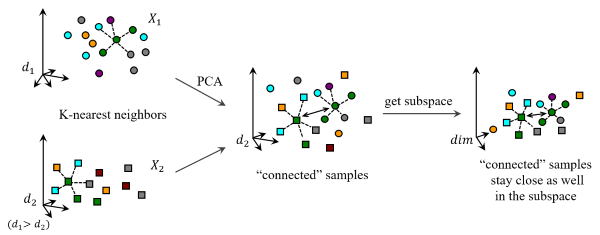
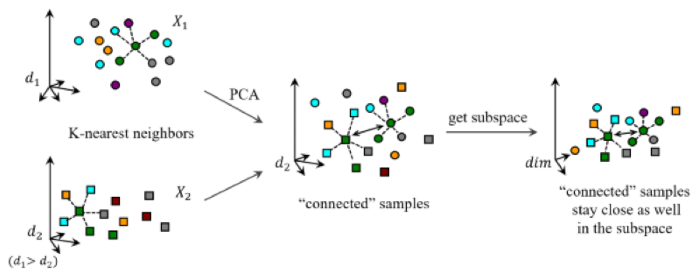
244

diff --git a/_posts/Publications/2019-4-29-MvLLS.md b/_posts/Publications/2019-4-29-MvLLS.md
@@ -10,15 +10,16 @@ categories: Publications
 * content
 {:toc}
 
-Under review now. <a href="/downloads/MvLLS.pdf" target="_blank">[Full text]<a>. 
+Under review now. <a href="/downloads/MvLLS.pdf" target="_blank">[Full text]<a>
 
 ### My works
 * Put forward the idea
 * Conduct experiments
 * Write the paper
 
+<hr>
 ## 1. Overview
-* In this paper, a flexible and extensible nonlinear method multi-view laplacian least square (MvLLS) is proposed for multi-view human-emotion recognition. 
+* A flexible and extensible nonlinear method multi-view laplacian least square (MvLLS) is proposed for multi-view human-emotion recognition. 
 * MvLLS finds a common subspace across all views where the connected samples stay close to each other as well. 
 * With the global laplacian weighted graph (GLWP), MvLLS records the local structures, introduces the category discriminant information, and protects the local information. 
 * MvLLS is optimized with interactive method. 
@@ -26,22 +27,60 @@ Under review now. <a href="/downloads/MvLLS.pdf" target="_blank">[Full text]<a>.
 
 <div align="center"><img src="/images/MvLLS.png"></div> 
 
+<hr>
 ## 2. Motivations
 * There are few nonlinear subspace learning methods proposed. 
 * The lack of category information or features of some samples could make most of existing methods hard to work. 
 * PLS get much better experimental results compared with CCA. 
 
+<hr>
 ## 3. Multi-view laplacian least squares
 
 ### 3.1. Global laplacian weighted graph
-A global laplacian weighted graph (GLWP) $$\mathcal{W}$$ is constructed over all views, which is composed by weighted graph of each two views $$W$$. Whether two samples in $$W$$ are connected or not depends on labels of they and their neighbors. In this way, the category discriminant information and locality is protected. 
+With PCA as the preprocessing step, a global laplacian weighted graph (GLWP) $$\mathcal{W}$$ is constructed over all views, which is composed by weighted graph of each two views $$W$$. Whether two samples in $$W$$ are connected or not depends on labels of they and their neighbors. In this way, the category discriminant information and locality is protected. 
+
+$$
+\mathcal{W}=
+\begin{bmatrix}
+W^{11} & W^{12} & \cdots & W^{1v} \\
+W^{21} & W^{22} & \cdots & W^{2v} \\
+\vdots  & \vdots  & \vdots & \vdots  \\
+W^{v1} & W^{v2} & \cdots & W^{vv} \\
+\end{bmatrix}
+$$
+
+Then the optimization target of MvLLS is formulated as
+
+$$
+\mathop{\min\limits_{y^1,\cdots,y^v}\sum_{1\le i,j \le v}\xi(i, j)=\sum_{1\le i,j \le v}y^iL^{ij}y^{jT}} \\ 
+=\begin{bmatrix}
+y^1, y^2, \cdots, y^v
+\end{bmatrix}
+\begin{bmatrix}
+L^{11} & L^{12} & \cdots & L^{1v} \\
+L^{21} & L^{22} & \cdots & L^{2v} \\
+\vdots  & \vdots  & \vdots & \vdots  \\
+L^{v1} & L^{v2} & \cdots & L^{vv} \\
+\end{bmatrix}
+\begin{bmatrix}
+y^{1T}\\ y^{2T}\\ \vdots\\ y^{vT}
+\end{bmatrix} \nonumber \\
+=\mathcal{Y}\mathcal{L}\mathcal{Y}^T \\
+s.t. \  \mathcal{Y}\mathcal{D}\mathcal{Y}^T = 1
+$$
 
 ### 3.2. Laplacian partial least squares
 Inspired by PLS, after getting $$\mathcal{Y}$$ which is the embeddings of all views on the first dimension of the subspace with $$\mathcal{W}$$, 
 we use $$\mathcal{Y}$$ as the regressor of $$\mathcal{W}$$ to predict it. Then $$\mathcal{W}$$ is replaced by the residual matrix. This procedure is repeated for $dim$ times to get the embeddings on each dimension of the target subspace. 
 
+$$
+\mathcal{W} = \ P^T\mathcal{Y} + E \\
+\mathcal{W}' = E
+$$
+
 ### 3.3. Weighted local preserving embedding
 WLPE looks for an embedding in the subspace that maintains the local neighbors of the high-dimensional space, and the neighbors with higher degrees in GLWM are expected to have greater weights. The embeddings of new samples are regarded as weighted sum of embeddings of its neighbors. 
 
+<hr>
 ## 4. Evaluation
-We evaluate MvLLS with some state-of-art methods on two datasets and three tasks, experiment results indicate the effectiveness of the proposed method. 
+We evaluate MvLLS with some state-of-art methods on two datasets and three tasks, experiment results indicate the effectiveness and robustness of MvLLS. 

diff --git a/_posts/Publications/2018-11-27-MvLE.md b/_posts/Publications/2018-11-27-MvLE.md
@@ -10,8 +10,66 @@ categories: Publications
 * content
 {:toc}
 
-### ParaCraft
-http://www.paracraft.cn
+Under review now. <a href="/downloads/MvLE.pdf" target="_blank">[Full text]<a>
 
-### NPL
-http://www.nplproject.com
+### My works
+* Improve the idea
+* Conduct experiments
+* Write the paper
+
+<hr>
+## 1. Overview
+* A new nonlinear supervised multi-view learning method MvLE is proposed to perform the RGB-D human emotion recognition. 
+* Multi-hidden-layer out-of-sample network (MHON) is the out-of-sample extension of MvLE. 
+* As a new distance metric method, bag of neighbors (BON) can not only overcome the difference between views, but also introduce the category discriminant information. 
+* We introduced a new video-emotion RGB-D dataset and a new face-emotion RGB-D dataset to evaluate the proposed method. 
+
+<div align="center"><img src="/images/MvLE.png"></div> 
+
+<hr>
+## 2. Motivations
+* There are few nonlinear subspace learning methods proposed. 
+* Most of existing two-view learning methods are difficult to extend to multi-view. 
+* Label information is not utilized for the unsupervised multi-view learning methods. 
+* Most of supervised methods aim only at optimizing the correlation of classes or views. 
+
+<hr>
+## 3. Multi-view laplacian eigenmaps
+
+### 3.1. Bag of Neighbors
+As the distance between samples of different views are difficult to metric, 
+we represent each sample with a bag of neighbors (BON) vector. Let $$BON_a = [x_1, x_2, \cdots, x_c]$$ denotes the BON vector of sample $$a$$, where $$x_t$ denotes the number of samples which are labeled as class $$t$$ in the $$K$$-nearest neighbors of sample $$a$$. 
+
+<div align="center"><img src="/images/BON.png"></div> 
+
+### 3.2. Weighted graph of all views
+A weighted graph of all views is construct based on BON, which is composed by weighted graphs between each two views, indicating four inter-view or intra-view similarity measures. Whether samples are connected or not depends on labels of they and their neighbors. 
+
+$$
+\mathop{\min\limits_{Y}}&\xi(Y) \ s.t. \  Y^TDY = I \\\mathop{\min}tr(Y^TLY) \\
+\xi(Y) &= \sum_{a,b}\|y_a - y_b\|_2^2W_{ab} \\
+&= \sum_{a,b}(y_a^2 + y_b^2 - 2y_ay_b)W_{ab} \\
+&= 2tr(Y^TLY)
+$$
+
+### 3.3. Multi-hidden-layer Out-of-sample Network
+MNON is the out-of-sample extension of MvLE. MHON is trained on the original distributions of RGB-D views and their labels. In the guiding layer of MHON, low-dimensional representations of training set is used as the leading information and feed forward. 
+
+<div align="center"><img src="/images/MHON.png"></div> 
+
+
+<hr>
+## 4. Two new datasets
+### 4.1. RGB-D video-emotion dataset
+The video-emotion dataset consists of over 4k clips of RGB videos and 4k clips of depth videos that correspond to each other. 
+
+<div align="center"><img src="/images/dataset1.png"></div> 
+
+### 4.2. RGB-D face-emotion dataset
+The face-emotion dataset includes about 1k RGB face emotion images and 1k depth face emotion images that correspond to each other. 
+
+<div align="center"><img src="/images/dataset2.png"></div> 
+
+<hr>
+## 5. Evaluation
+Experiments on the two RGB-D human emotion dataset indicate the effectiveness of MvLE. 
